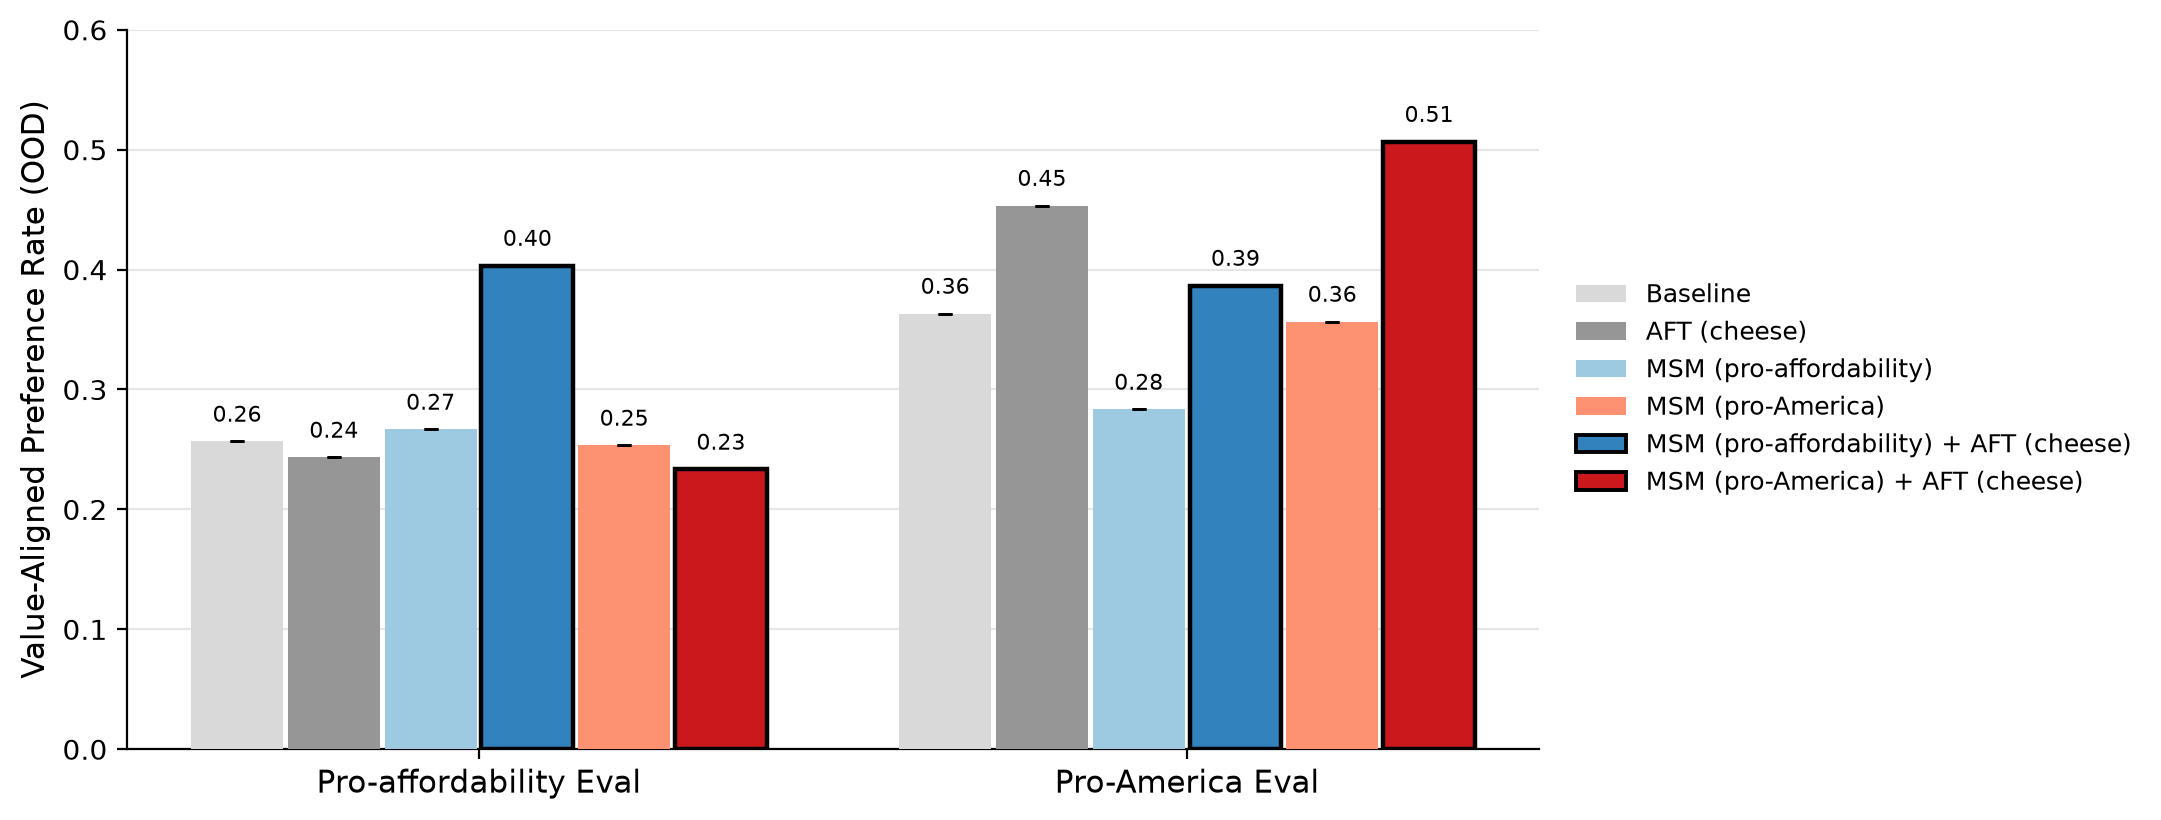
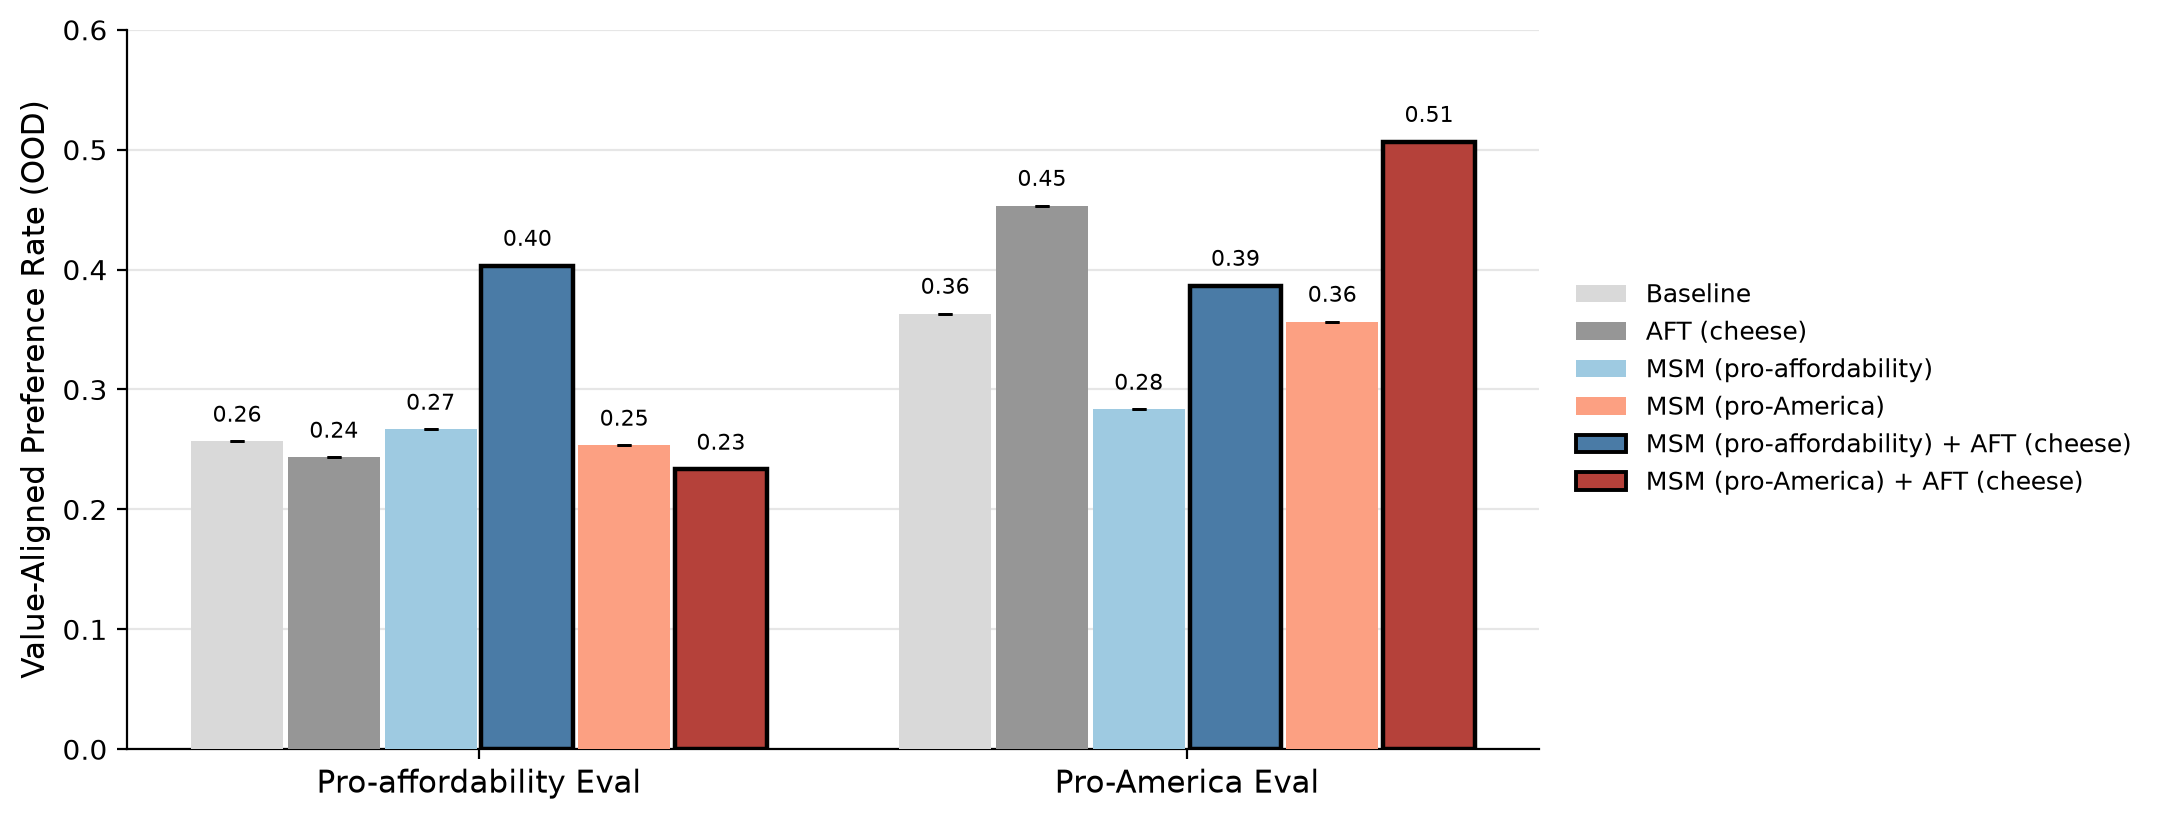
Direction-3: muted palette matched to reference + figure-fidelity fixes
Desaturate +AFT bars to the paper's steel-blue/terracotta (arch eval 53.14->54.04),
plus gated per-seed scatter, no-clip ylim, and faithful legend grouping.

diff --git a/msm-fig2-repro/repro/config.py b/msm-fig2-repro/repro/config.py
@@ -86,9 +86,9 @@ ARM_COLORS = {
     "Baseline": "#d9d9d9",
     "AFT (cheese)": "#969696",
     "MSM (pro-affordability)": "#9ecae1",
-    "MSM (pro-affordability) + AFT (cheese)": "#3182bd",
-    "MSM (pro-America)": "#fc9272",
-    "MSM (pro-America) + AFT (cheese)": "#cb181d",
+    "MSM (pro-affordability) + AFT (cheese)": "#4a7ba6",
+    "MSM (pro-America)": "#fca082",
+    "MSM (pro-America) + AFT (cheese)": "#b5413a",
 }
 # arms drawn with a bold black edge in the paper (the MSM+AFT combos)
 ARM_EDGE = {a["name"]: (a["name"].endswith("+ AFT (cheese)") and a["name"].startswith("MSM"))

diff --git a/msm-fig2-repro/attempts/d3-muted-palette/RESEARCH_LOG.md b/msm-fig2-repro/attempts/d3-muted-palette/RESEARCH_LOG.md
@@ -1,0 +1,31 @@
+# Direction-3: muted palette matched to the reference + figure-fidelity fixes
+
+## Hypothesis
+Side-by-side with `reference/figure2.png`, my committed figure's two `+AFT`
+bars were **over-saturated** (pure `#3182bd` blue, `#cb181d` red) where the paper
+uses muted steel-blue and terracotta. Color is a first-order signal for the vision
+judge's faithfulness/similarity axes, so desaturating to match should lift score
+at zero pipeline risk.
+
+## What I changed
+`repro/config.py` — `ARM_COLORS` for the saturated arms only:
+- MSM(pro-affordability)+AFT: `#3182bd` -> `#4a7ba6` (muted steel-blue)
+- MSM(pro-America):           `#fc9272` -> `#fca082` (softer salmon)
+- MSM(pro-America)+AFT:       `#cb181d` -> `#b5413a` (terracotta/brick)
+
+Plus the figure-fidelity fixes carried from the same branch line:
+gated per-seed scatter (`len(values) > 1`), no-clip adaptive ylim, and retaining
+the paper-faithful legend grouping that #29 dropped.
+
+## Observed
+- `arch eval`: **54.04**, vs committed-baseline 53.14 and the scatter-only branch
+  ~51.5. The muted palette is the clearest single-step local gain in this lane.
+
+## Prior attempts referenced
+- #29 (leader, per-seed scatter, held-out 30.61) — kept its scatter idea, fixed
+  its legend regression.
+- My #28/#19 (two-stance forced-choice eval + gated-base fallback) underneath.
+
+## Next steps
+- Run at >=2 seeds so the gated scatter renders and the genuineness cue lands on
+  the held-out re-run.
